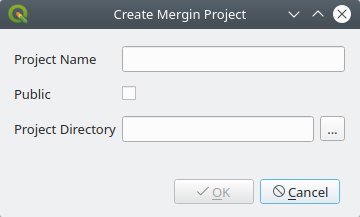
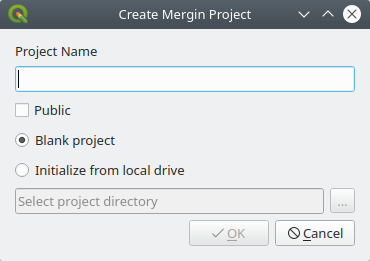
updated the doc and screenshots to match the latest changes to the plugin

diff --git a/docs/user-docs.md b/docs/user-docs.md
@@ -18,7 +18,6 @@ To be able to view Mergin projects, we need to sign in:
 1. In the browser panel, right-click on Mergin
 2. Select **Configure**
 3. A new window will appear:
-  - For **URL**: type **https://public.cloudmergin.com**
   - For **Username**: type your Mergin username
   - For **Password**: type your Mergin password
   - Click **Test Connection** and it should show <span style="color:green">OK</span>.
@@ -26,17 +25,23 @@ To be able to view Mergin projects, we need to sign in:
 
 <img src="images/mergin-settings.png">
 
+**Note 3**: the default URL for the Mergin service is set to https://public.cloudmergin.com/. You can change that, by selecting **Custom Mergin server**.
+
 To view the list of your projects, click on the arrow to the right of Mergin in your QGIS browser panel.
 
 ## Using Mergin plugin
 The following functionalities are available from Mergin plugin:
 
 ### Create a new project
-You can start a new project by right-clicking on Mergin from the browser panel and selecting **Create new project**:
+You can start a new project by right-clicking on Mergin from the browser panel and selecting **Create new project**. The project can be an empty placeholder on the Mergin server. If you already have all the data and QGIS project file locally on a folder, you can create a project on the server and point it to the local folder.
 
 - Type a name for **Project name**
 - Selecting **Public** will make your project available to all Mergin users
-- **Project Directory** will be the folder where your project and associated layers reside
+- To create a placeholder on the Mergin server, select **Blank project**. Note that after creating the blank project, you need to download it locally and transfer your QGIS project and data to the folder.
+
+Alternatively, if you have the data and project already in a folder:
+- Select **Initialize from local drive** and point to the folder containing QGIS project and data.
+
 
 <img src="images/mergin-new-project.png">
 
